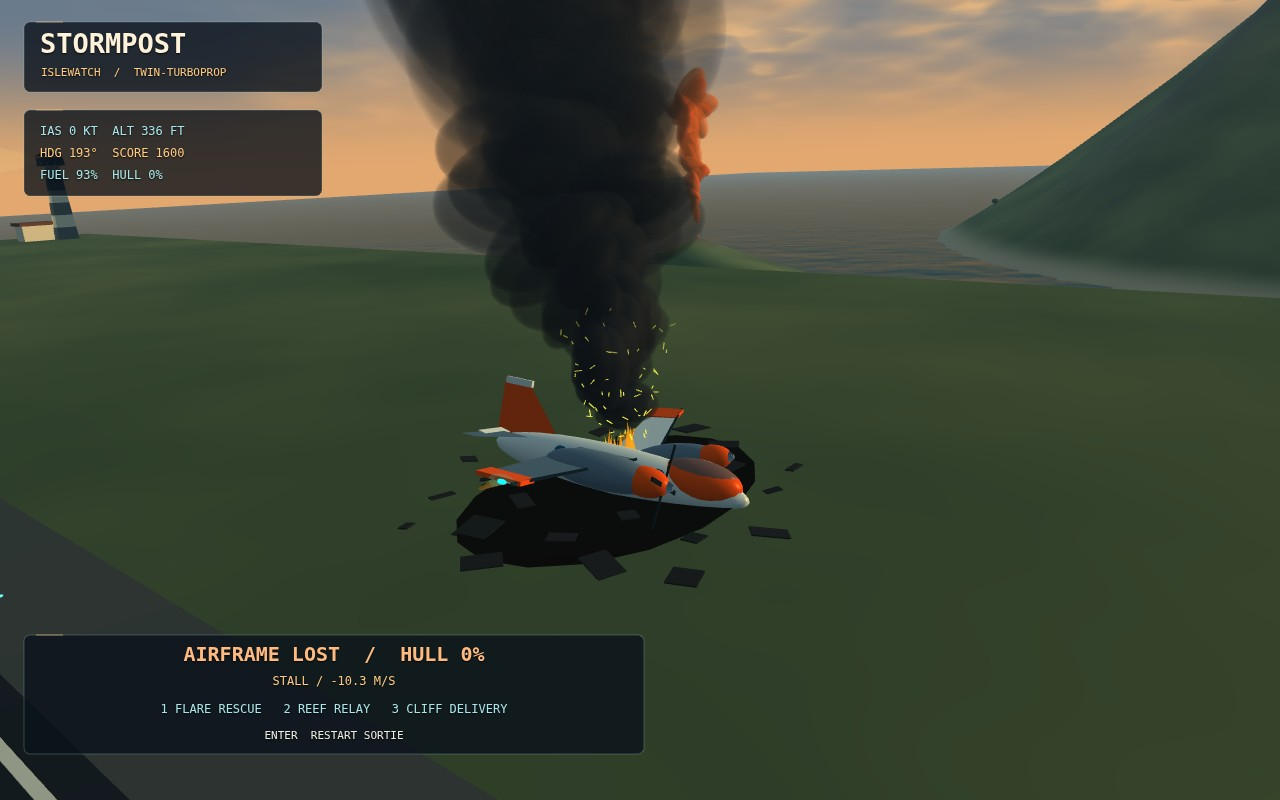
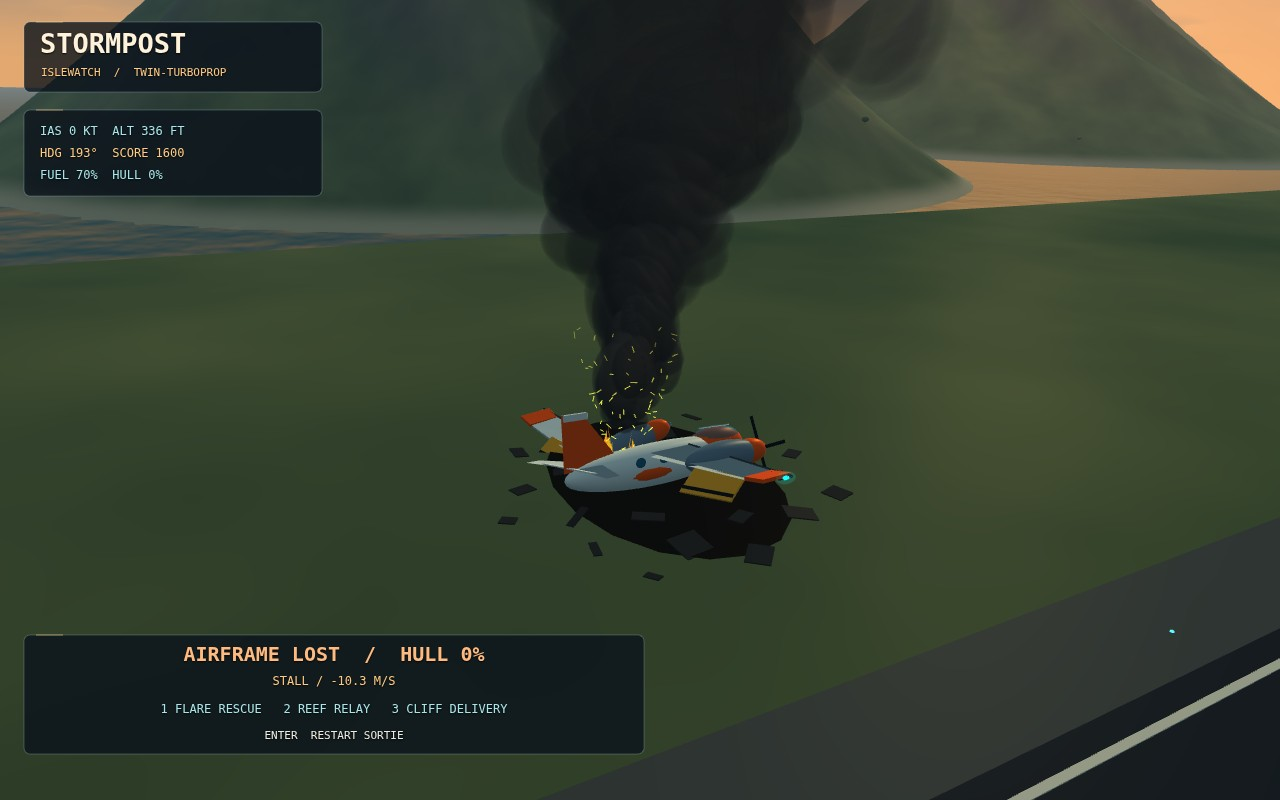
STORMPOST v4.1: grounded beacons, earned cover, PAPI and storm wear

diff --git a/game/src/terrainWorld.js b/game/src/terrainWorld.js
@@ -27,7 +27,8 @@ export function buildWorld(engine){
  for(let z=-9500;z<3000;z+=180)for(let x=-8000;x<8000;x+=180)quad(water,[x,0,z],[x,0,z+180],[x+180,0,z+180],[x+180,0,z],[.035,.19,.23]);
  const {x,y,z0,z1,width}=runway;box(structures,[x,y-8,(z0+z1)/2],[width+26,16,z0-z1+50],[.24,.26,.24]);box(structures,[x,y+.2,(z0+z1)/2],[width,.5,z0-z1],[.095,.12,.14]);
  for(let z=z0-60;z>z1+60;z-=95)box(structures,[x,y+.6,z],[2,.12,42],[.8,.81,.71]);for(let side of [-1,1]){box(structures,[x+side*(width/2-3),y+.5,(z0+z1)/2],[.8,.15,z0-z1-30],[.86,.84,.71]);for(let i=0;i<7;i++)box(structures,[x+side*(5+i*3.7),y+.7,z0-32],[2.4,.15,42],[.86,.86,.76]);for(let z=z0+180;z>z1;z-=58){let c=z>z0?[.9,.65,.22]:[.2,.65,1];ellipsoid(light,[x+side*(width/2+4),y+1,z],[.24,.12,.24],c,5,6);}for(let z=z0-80;z>z0-260;z-=18)box(structures,[x+side*7,y+.75,z],[1.4,.05,12],[.035,.04,.04]);}
- for(let i=0;i<4;i++){box(structures,[x-55-i*8,y+.6,z0-70],[1.2,.65,.8],[.16,.18,.18]);ellipsoid(light,[x-55-i*8,y+.68,z0-69.55],[.42,.17,.12],i<2?[1,.05,.02]:[1,.85,.65],5,8);}
+ // Four ground-mounted PAPI housings at the touchdown zone: two white / two red.
+ for(let i=0;i<4;i++){box(structures,[x-55-i*8,y+.65,z0-240],[1.6,.8,1.1],[.16,.18,.18]);ellipsoid(light,[x-55-i*8,y+.8,z0-239.4],[.65,.36,.18],i<2?[1,.94,.83]:[1,.025,.008],8,12);}
  box(structures,[x+110,y+21,z0-350],[18,42,18],[.52,.5,.41]);box(structures,[x+110,y+45,z0-350],[29,10,27],[.09,.3,.34]);box(structures,[x+110,y+52,z0-350],[34,3,32],[.34,.39,.37]);rod(structures,[x+110,y+52,z0-350],[x+110,y+72,z0-350],.5,[.65,.64,.6]);box(structures,[x+120,y+5,z0-440],[60,10,40],[.4,.39,.33]);rod(structures,[x+80,y,z0-60],[x+80,y+23,z0-60],.7,[.8,.8,.7]);
  // Painted runway designator and deterministic coastal detail are physical world geometry.
  box(structures,[x-14,y+.9,z0-128],[2,.13,30],[.97,.96,.85]);

diff --git a/game/src/missionDirector.js b/game/src/missionDirector.js
@@ -13,6 +13,7 @@ export function createMissionDirector(engine){
  const ground=terrainHeight(rescueZone.x,rescueZone.z);
  box(beacon,[0,.8,0],[2,1.6,2],[.4,.17,.07]);
  rod(beacon,[0,0,0],[0,3,0],.27,[1,.22,.03],8,.08);
+ ellipsoid(beacon,[0,3.2,0],[.48,.6,.48],[1,.72,.28],8,12);
  for(let i=0;i<24;i++){
   const a=i*Math.PI/12,b=(i+1)*Math.PI/12;
   for(let j=0;j<6;j++){
@@ -58,10 +59,14 @@ export function createMissionDirector(engine){
   }
  },draw(s){
   for(let i=0;i<gates.length;i++)if(s.contract===2&&i>=(s.rings||0))engine.draw(g.ring,transform(gates[i]),{emission:i===(s.rings||0)?.65:.18});
-  engine.draw(g.beacon,transform([rescueZone.x,ground,rescueZone.z]),{emission:1.1});
-  for(let i=12;i>=0;i--){
-   const life=(i*.41+s.elapsed*.5)%6,r=2.5+life*1.8;
-   engine.draw(g.smoke,transform([rescueZone.x+life*3,ground+3+life*22,rescueZone.z+Math.sin(i)*life],[i,life,0],[r,r*1.5,r]),{alpha:.29,emission:.18,soft:true});
+  // Low coastal marker: a bright point source and a narrow wind-carried ribbon.
+  // Suppress distant mission smoke after impact so it cannot pierce wreck smoke.
+  if(s.status!=='crashed'){
+   engine.draw(g.beacon,transform([rescueZone.x,ground,rescueZone.z]),{emission:2.8});
+   for(let i=10;i>=0;i--){
+    const life=(i*.31+s.elapsed*.28)%3.5,r=.55+life*.38;
+    engine.draw(g.smoke,transform([rescueZone.x+life*3.2,ground+2+life*8,rescueZone.z+life*.6],[i,life,0],[r,r*1.65,r*.65]),{alpha:.19*(1-life/4),emission:.10,soft:true});
+   }
   }
   for(let p of supplies){
    engine.draw(g.cargo,transform(p.pos));

diff --git a/game/src/aerodynamics.js b/game/src/aerodynamics.js
@@ -11,6 +11,8 @@ export function updateAerodynamics(s,input,dt){
  let drag=.0015*s.speed*s.speed+.9*s.gear+1.5*s.flaps+Math.abs(s.roll)*.5;let thrust=s.fuel>0?s.throttle*12:0;s.speed=clamp(s.speed+(thrust-drag-Math.sin(s.pitch)*9.81)*dt,5,145);
  const shadowLift=Math.max(0,1-Math.hypot(s.pos[0]+720,s.pos[2]+1800)/700)*3.2;let desiredV=shadowLift+s.speed*Math.sin(s.pitch)+(s.speed-58)*.035*groundEffect+s.flaps*1.4-(s.stall?12:0)+(storm?Math.sin(s.elapsed*2.3)*2:0);s.verticalSpeed+=(desiredV-s.verticalSpeed)*dt*1.7;s.pos[1]+=s.verticalSpeed*dt;
  s.heading-=Math.sin(s.roll)*dt*(.32*65/Math.max(25,s.speed));s.pos[0]+=Math.sin(s.heading)*s.speed*dt+gust*dt;s.pos[2]-=Math.cos(s.heading)*s.speed*dt;
- s.fuel=clamp(s.fuel-dt*(.025+s.throttle*.055)*(s.route==='SAFE LOOP'?1.13:1),0,100);if(storm&&Math.abs(gust)>4)s.hull=clamp(s.hull-dt*.07,0,100);
+ // Accelerated sortie clock: throttle burn plus sustained storm power demand;
+ // structural fatigue accrues only during actual severe wind-shear exposure.
+ s.fuel=clamp(s.fuel-dt*(.065+s.throttle*.06+(storm?.40:0))*(s.route==='SAFE LOOP'?1.13:1),0,100);if(storm&&Math.abs(gust)>4)s.hull=clamp(s.hull-dt*1.3,0,100);
  if(s.fuel===0)s.warning='FUEL EXHAUSTED — BEST GLIDE';else if(s.stall)s.warning='STALL — LOWER NOSE / ADD POWER';else if(storm)s.warning='WIND SHEAR — HOLD ATTITUDE';else s.warning='';
 }

diff --git a/game/src/weatherAtmosphere.js b/game/src/weatherAtmosphere.js
@@ -1,5 +1,6 @@
 // Windshield precipitation and branching, tapered electrical discharges in world space.
 import {mesh,ellipsoid,transform} from './webglEngine.js';
+import {terrainHeight} from './terrainWorld.js';
 export function buildAtmosphere(engine){
  const ash=mesh();
  for(let i=0;i<7;i++){
@@ -27,9 +28,11 @@ export function buildAtmosphere(engine){
  }
  branch([-490,900,-1530],[-550,65,-1510],1.8,2);
  return {draw(s,t){
-  for(let i=14;i>=0;i--){
-   const life=(i*.47+t*.12)%7,scale=8+life*7.5;
-   engine.draw(plume,transform([-1280+life*31+Math.sin(i*2.3)*life*2,800+life*28,-2050-life*11+Math.cos(i)*life*3],[life,i,0],[scale,scale*1.45,scale]),{alpha:.18,soft:true});
+  const crater=terrainHeight(-1280,-1950)+3;
+  for(let i=20;i>=0;i--){
+   const rise=i/20,drift=rise*rise;
+   const scale=6+rise*24;
+   engine.draw(plume,transform([-1280+drift*120+Math.sin(t*.18+i*.7)*rise*4,crater+rise*175,-1950-drift*38],[rise*.3,i*.6,0],[scale,scale*1.5,scale]),{alpha:.22*Math.pow(1-rise,1.3),soft:true});
   }
   projected=s.storm?branches.map(b=>({width:b.width,points:b.points.map(engine.project)})):[];
  },rain(ctx,w,h,t){

diff --git a/game/src/cameraRig.js b/game/src/cameraRig.js
@@ -8,7 +8,7 @@ export function createCameraRig(){
  let eye=null;
  return {reset(){eye=null;},update(s,dt){
   const cockpit=s.camera==='cockpit',crashed=s.status==='crashed';
-  const desired=aircraftPoint(s,cockpit?[0,2.5,-10.5]:crashed?[86,18,-34]:s.gear?[0,14,64]:[16,19,77]);
+  const desired=aircraftPoint(s,cockpit?[0,2.5,-10.5]:crashed?[78,20,72]:s.gear?[0,14,64]:[16,19,77]);
   // A stationary renderer still follows flight state; no stored camera can lag a long tick batch.
   if(!eye||s.paused||Math.hypot(...desired.map((v,i)=>v-eye[i]))>40)eye=desired;
   else eye=eye.map((v,i)=>v+(desired[i]-v)*(1-Math.exp(-dt*8)));
